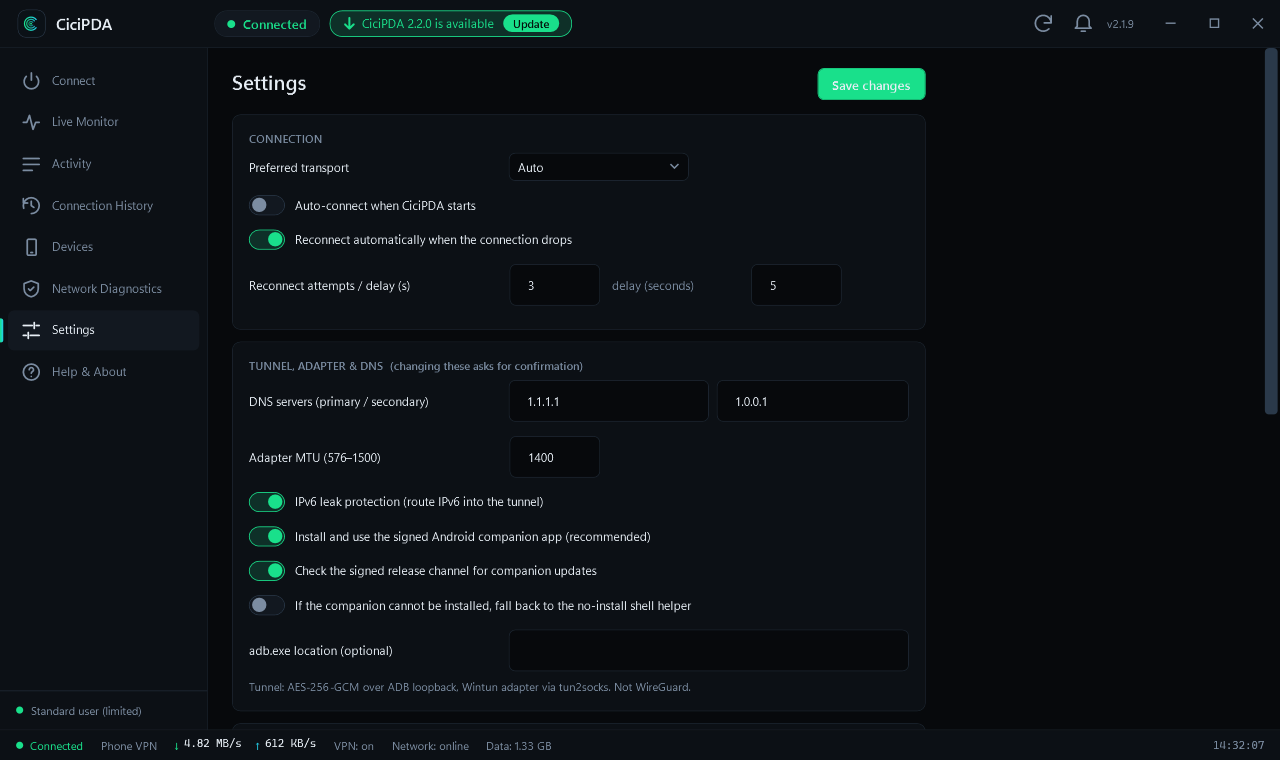
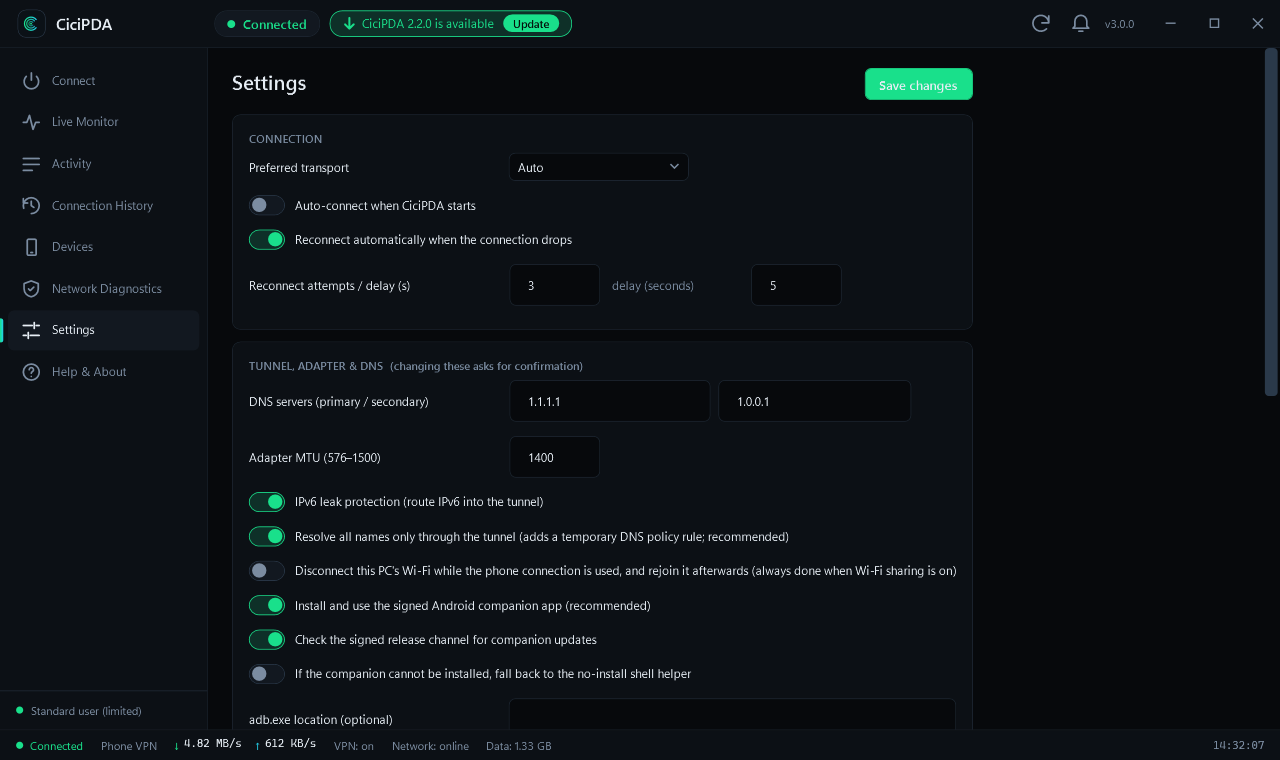
CiciPDA 3.0: update phase toasts, privacy-safe demo screenshots, README and What's new for 3.0

diff --git a/src/app/MainWindow.xaml b/src/app/MainWindow.xaml
@@ -653,7 +653,7 @@
                         <TextBlock Text="{Binding L[nav.help]}" Style="{StaticResource H1}" Margin="0,0,0,14"/>
                         <Border Style="{StaticResource Card}" Margin="0,0,0,12" BorderBrush="{DynamicResource Green}">
                             <StackPanel>
-                                <TextBlock Text="WHAT'S NEW IN 2.2.1" Style="{StaticResource SectionTitle}" Foreground="{DynamicResource Green}"/>
+                                <TextBlock Text="WHAT'S NEW IN 3.0" Style="{StaticResource SectionTitle}" Foreground="{DynamicResource Green}"/>
                                 <TextBlock TextWrapping="Wrap" Margin="0,8,0,0" LineHeight="20" Text="• Fixed: the app no longer closes itself when you press Connect or Disconnect.&#10;• The X button hides CiciPDA to the system tray while a connection is active, so the connection keeps running. Tray menu: Open, Disconnect, Quit.&#10;• The window opens where you left it (position, size, maximised).&#10;• Wi-Fi handover: your PC's Wi-Fi is released while the phone connection is used (automatic with Wi-Fi sharing) and rejoined afterwards.&#10;• Devices page: see every device on your hotspot (name, IP, MAC), name them, copy details, and change the password to disconnect everyone.&#10;• DNS fix: while connected, Windows resolves names only through the tunnel's DNS servers (a temporary policy rule, removed on disconnect). Other adapters can no longer answer with an empty result and break the internet checks.&#10;• Wi-Fi sharing card on the Connect page: switch, network name, masked password with Show/Copy, live state, connected devices, Start/Stop.&#10;• The header Update button shows download progress and cannot be pressed twice; new Check for updates button.&#10;• A failed connection no longer blocks the next one."/>
                             </StackPanel>
                         </Border>

diff --git a/src/app/ShellViewModel.cs b/src/app/ShellViewModel.cs
@@ -550,7 +550,9 @@ public sealed class ShellViewModel : Observable
 
     void SetUpdatePhase(string phase, string chip, double progress, bool indeterminate)
     {
+        bool phaseChanged = phase != _updPhase;
         _updPhase = phase; UpdateChip = chip; UpdateProgress = progress; UpdateIndeterminate = indeterminate; Raise(nameof(UpdateBanner));
+        if (phaseChanged && phase.Length > 0) { Notifier.Show(Severity.Info, $"{phase} CiciPDA {UpdateVersion}..."); Log.Info("update", $"{phase} CiciPDA {UpdateVersion}"); }
     }
     public string CurrentVersionText => AppUpdater.CurrentVersion.ToString();
 
@@ -627,6 +629,13 @@ public sealed class ShellViewModel : Observable
         var titles = new[] { "Detect phone", "Check USB debugging authorization", "Check Android companion", "Install / update companion", "Start companion service", "Establish secure tunnel", "Create virtual adapter", "Configure routes and DNS", "Verify internet access" };
         for (int i = 0; i < titles.Length; i++) Stages.Add(new StageRow { Title = titles[i], Detail = det[i], State = ItemState.Ok, Skipped = i == 3 });
         ShareStateText = "A connected device confirmed DNS and HTTPS. Sharing works."; ShareStateBrush = Theme.Brush("Green"); ShareClientsText = "1 device(s) connected"; ShowSharePassword = false;
+        DeviceRows.Clear(); KnownRows.Clear();
+        DeviceRows.Add(new DeviceRow { Serial = "DEMO-0000-SERIAL", Name = "Pixel 7", Transport = "USB", Connected = true, Trusted = true, Trust = "Authorized", Status = "In use", LastSeen = "now", Preferred = true });
+        Raise(nameof(HasDevices)); Raise(nameof(HasKnown));
+        SharedDevices.Clear();
+        SharedDevices.Add(new SharedDeviceRow { Name = "Mike's laptop", HostName = "DESKTOP-4F2K1", Ip = "192.168.137.12", Mac = "3C-22-FB-A1-07-5E", Since = "connected 6 min ago", HasAlias = true });
+        SharedDevices.Add(new SharedDeviceRow { Name = "Unknown device", HostName = "", Ip = "192.168.137.31", Mac = "9A-4B-10-C2-D8-77", Since = "connected just now" });
+        Raise(nameof(HasSharedDevices)); SharedDevicesHint = "";
         UpdateAvailable = true;
         if (Environment.GetCommandLineArgs().Contains("--demo-update")) { _update = new UpdateInfo(new UpdateManifest { Version = "2.2.0" }, new Version(2, 2, 0), new Uri("https://github.com/")); UpdateBusy = true; SetUpdatePhase("Downloading", "42%", 0.42, false); }
         Raise(nameof(UpdateBanner));
@@ -777,6 +786,7 @@ public sealed class ShellViewModel : Observable
 
     void RebuildDevices()
     {
+        if (_demo) return;                       // preview screenshots must never show the developer's real phone
         DeviceRows.Clear(); KnownRows.Clear();
         foreach (var d in Orch.Devices)
             DeviceRows.Add(new DeviceRow

diff --git a/README.md b/README.md
@@ -42,7 +42,7 @@ Connects an Android phone over USB, installs and updates its own signed companio
     <td width="50%"><img src="docs/images/diagnostics.png" alt="Network Diagnostics"><br><sub><b>Network Diagnostics</b> — every check explains the fix</sub></td>
   </tr>
   <tr>
-    <td width="50%"><img src="docs/images/devices.png" alt="Devices"><br><sub><b>Devices</b> — connected and previously paired phones, trust status</sub></td>
+    <td width="50%"><img src="docs/images/devices.png" alt="Devices"><br><sub><b>Devices</b> — devices on your Wi-Fi hotspot (name, IP, MAC, your own names) plus connected and previously paired phones</sub></td>
     <td width="50%"><img src="docs/images/settings.png" alt="Settings"><br><sub><b>Settings</b> — dangerous network changes ask for confirmation</sub></td>
   </tr>
 </table>
@@ -64,7 +64,7 @@ CiciPDA checks the signed release channel shortly after start and every six hour
 
 ## What's new
 
-See [CHANGELOG.md](CHANGELOG.md). Highlights of 2.2.1: the app **no longer closes itself** on Connect/Disconnect, it **hides to the system tray** while connected, it **remembers its window position**, it can **release the PC's Wi-Fi** while sharing, and the Devices page lists and names the **devices on your hotspot**. Earlier: **DNS fix**, the **Wi-Fi sharing** card, an **Update** button with progress and **Check for updates**.
+See [CHANGELOG.md](CHANGELOG.md). Highlights of 3.0: the app **no longer closes itself** on Connect/Disconnect, it **hides to the system tray** while connected, it **remembers its window position**, it can **release the PC's Wi-Fi** while sharing, and the Devices page lists and names the **devices on your hotspot**. Earlier: **DNS fix**, the **Wi-Fi sharing** card, an **Update** button with progress and **Check for updates**.
 
 ## Platform support
 
@@ -106,6 +106,10 @@ Details: [protocol and limits](docs/PROTOCOL.md) · [Android companion & OEM not
 
 ## Features
 
+- **Runs in the system tray:** while a connection is active, the **X button hides CiciPDA to the tray** instead of closing it (tray menu: Open, Disconnect, Quit). Starting CiciPDA again brings the running window forward.
+- **Remembers where you put the window** (position, size, maximised) and never restores it off-screen.
+- **Wi-Fi handover:** your PC's Wi-Fi is released while the phone connection is used and rejoined afterwards (automatic when Wi-Fi sharing is on, or switch it on in Settings). Journaled, so a crash or restart rejoins it too.
+- **Devices on your hotspot** (Devices page): name, IP and MAC of every device that joined, how long it has been connected, names you choose, copy IP/MAC, and *Change password and disconnect all* (Windows Mobile Hotspot has no per-device block, so a new password is the supported way to remove devices).
 - **Wi-Fi sharing card** on the Connect page: on/off switch, network name, masked password with Show/Copy, live state (waiting for a verified connection → starting → active → device connected → device internet verified, or the exact reason it is unavailable), connected-device count and Start/Stop buttons
 - Connect · Live Monitor · Activity · Connection History · Devices · Network Diagnostics · Settings · Help
 - Real-time download/upload, session totals, latency, probe loss, uptime, phone signal and network type
@@ -128,7 +132,7 @@ Details: [protocol and limits](docs/PROTOCOL.md) · [Android companion & OEM not
 
 - Not a full layer-3 VPN and **not WireGuard**: TCP and UDP datagrams are relayed (Windows DNS is ordinary UDP/53 sent through the phone to the DNS servers in Settings); ICMP (ping) is not carried; IP fragments are dropped. IPv6 is routed into the tunnel only when leak protection is on and works only if the phone's network has IPv6. iPhone and hotspot-join modes are not encrypted by CiciPDA.
 - Android may stop background apps on aggressive battery managers; CiciPDA detects it and reconnects. See the [OEM notes](docs/ANDROID_COMPANION.md).
-- **Not validated end to end on hardware yet.** On a real Android 16 phone the device detection, authorization, signed companion install, foreground service and encrypted channel have run, and the Windows virtual adapter and network configuration were created; the final internet verification (DNS through the phone) has **not** passed yet, so Wi-Fi sharing has never actually started. The automated suite (110 tests, including the real Java relay and the real bundled `tun2socks.exe`/`netsh` command lines) cannot replace it; the checklist is in [docs/HARDWARE_TEST_PLAN.md](docs/HARDWARE_TEST_PLAN.md) and the honest status is in [docs/DEVELOPMENT.md](docs/DEVELOPMENT.md).
+- **Hardware status:** on a real Android 16 phone and a real Windows PC the connection, the verified internet access, Wi-Fi sharing and a second device joining the hotspot have been reported working by the project owner. A systematic run of the [hardware test plan](docs/HARDWARE_TEST_PLAN.md) (Windows 10 and 11, several phone vendors, iPhone, IPv6, QUIC, recovery cases) has **not** been completed yet. The automated suite (137 tests, including the real Java relay and the real bundled `tun2socks.exe`/`netsh` command lines) cannot replace it; the checklist is in [docs/HARDWARE_TEST_PLAN.md](docs/HARDWARE_TEST_PLAN.md) and the honest status is in [docs/DEVELOPMENT.md](docs/DEVELOPMENT.md).
 
 ## Build from source
 

diff --git a/docs/DEVELOPMENT.md b/docs/DEVELOPMENT.md
@@ -32,7 +32,7 @@ The Windows Mobile Hotspot API lets CiciPDA read and write the **SSID, passphras
 
 ## Build and test results (2026-11-06)
 * `dotnet build` (core, app, tests, ReleaseSigner): 0 errors, 0 warnings.
-* `dotnet test`: **110 passed, 0 failed** (non-elevated Windows PC, no phone). Coverage: relay protocol against the real Java relay (TCP, UDP IPv4/IPv6, 14 KB datagram, status, wrong key, SOCKS CONNECT/UDP ASSOCIATE, restart with the same key); release trust chain (tampered APK/metadata, same-server hash not trusted, unsafe names); APK certificate parser vs `apksigner`; install-failure classification; session-key handling (no file, masked in logs, stdin source assertion); Android manifest/service source assertions; `NetshPlan` (split routes, non-persistent, DNS scope, MTU clamp, bypass ordering, IPv6); recovery of a real orphan `tun2socks.exe` (and that an unrelated process is never killed); iPhone/Wi-Fi interface selection; hotspot capability queries (real WinRT) and the client probe page; UDP DNS check, IPv6 report, rollback route parser; updater manifest verification; ADB location (bundled-first, override, fallback); real release artifacts against the compiled-in production pins.
+* `dotnet test`: **137 passed, 0 failed** (non-elevated Windows PC, no phone). Coverage: relay protocol against the real Java relay (TCP, UDP IPv4/IPv6, 14 KB datagram, status, wrong key, SOCKS CONNECT/UDP ASSOCIATE, restart with the same key); release trust chain (tampered APK/metadata, same-server hash not trusted, unsafe names); APK certificate parser vs `apksigner`; install-failure classification; session-key handling (no file, masked in logs, stdin source assertion); Android manifest/service source assertions; `NetshPlan` (split routes, non-persistent, DNS scope, MTU clamp, bypass ordering, IPv6); recovery of a real orphan `tun2socks.exe` (and that an unrelated process is never killed); iPhone/Wi-Fi interface selection; hotspot capability queries (real WinRT) and the client probe page; UDP DNS check, IPv6 report, rollback route parser; updater manifest verification; ADB location (bundled-first, override, fallback); real release artifacts against the compiled-in production pins.
 * Release build (`installer/build-installer.ps1`): clean self-contained win-x64 publish, Inno Setup 6.7.3 compile, then `validate-release.ps1` **PASSED**: publish folder contains every runtime file, ADB files byte-identical to `third_party/adb`, companion APK hash equals the signed metadata, update manifest hash equals the installer, and the **installer was actually executed** (per-user, silent, into a temp folder), every file was checked in the installed copy and the uninstaller removed it. An MSBuild target also fails the build if a required runtime file is missing from the output.
 * Live update channel (published v2.1.0, verified earlier): the updater was offered 2.1.0 as a 2.0.0 client, nothing as a current client, and the real installer downloaded and passed the signed checksum. **The 2.1.1 contents described here are not yet published.**
 

diff --git a/CHANGELOG.md b/CHANGELOG.md
@@ -1,6 +1,6 @@
 # Changelog
 
-## 2.2.1 - What's new
+## 3.0.0 - What's new (includes everything from 2.1.x - 2.2.x)
 
 **Important fix: the app no longer closes itself**
 - In 2.1.7-2.2.0 pressing Connect (when the attempt failed) or Disconnect could close CiciPDA completely. Cause: stopping the packet engine sent a Ctrl+Break to its console, and CiciPDA was attached to that console and received it too. A real handler now absorbs it (verified with a GUI-process test harness).
